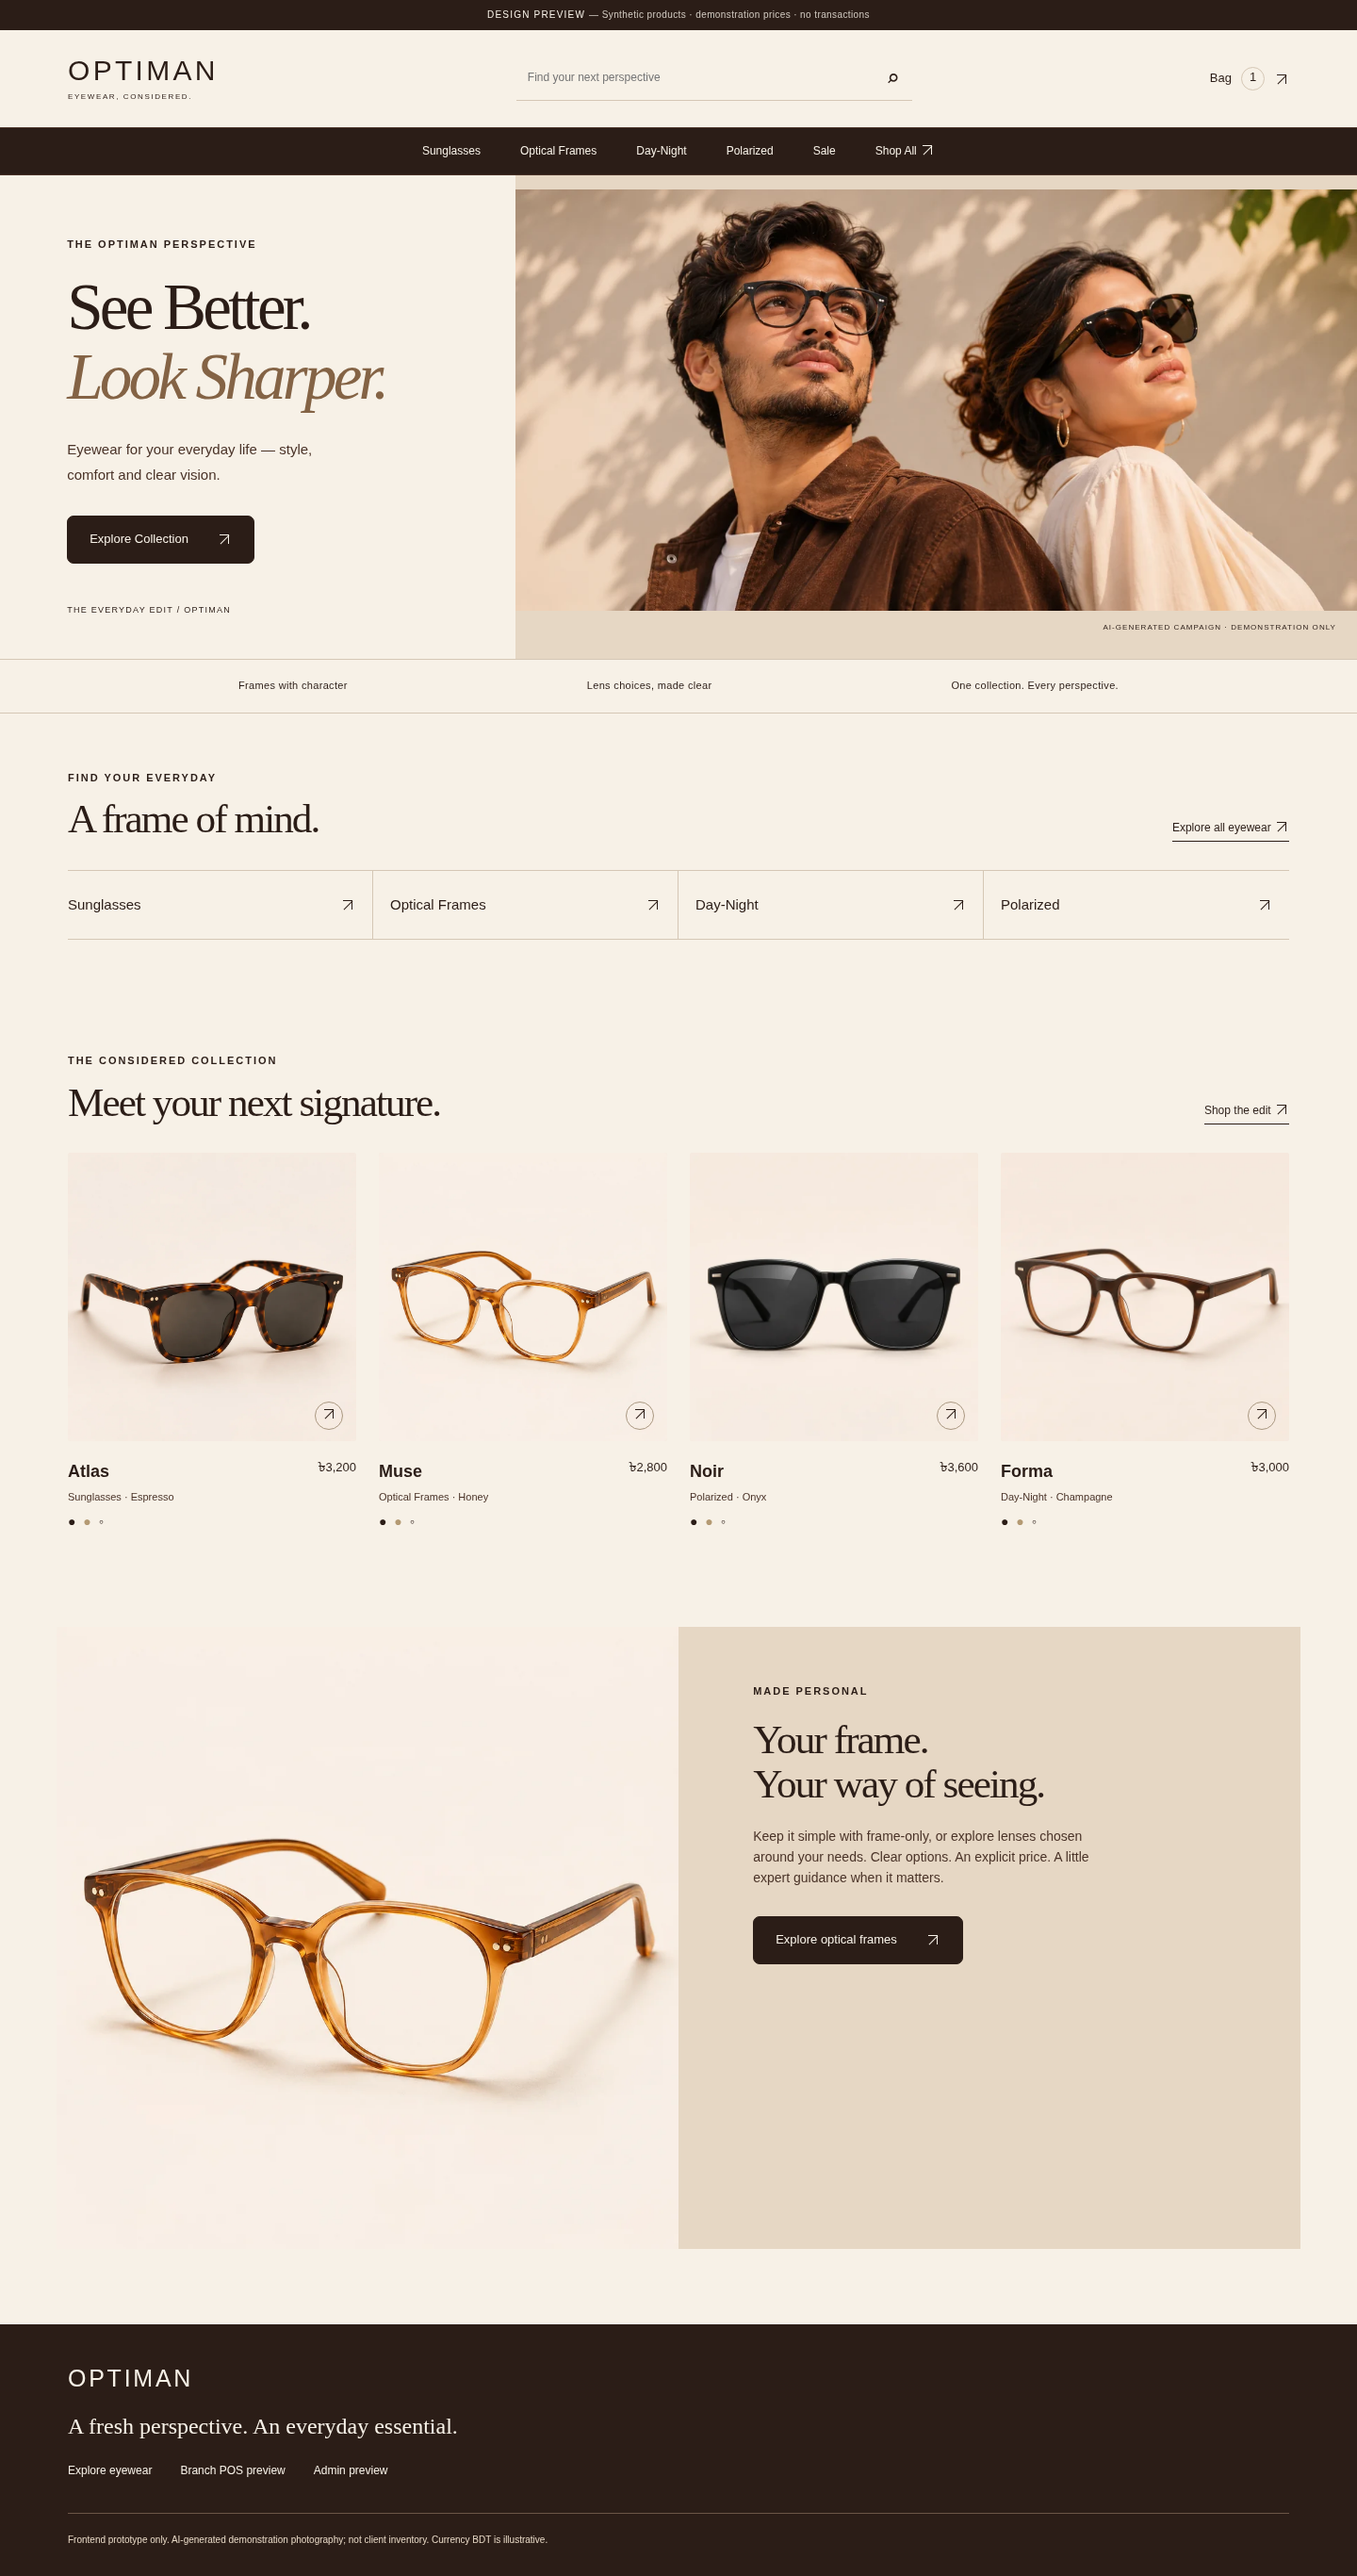
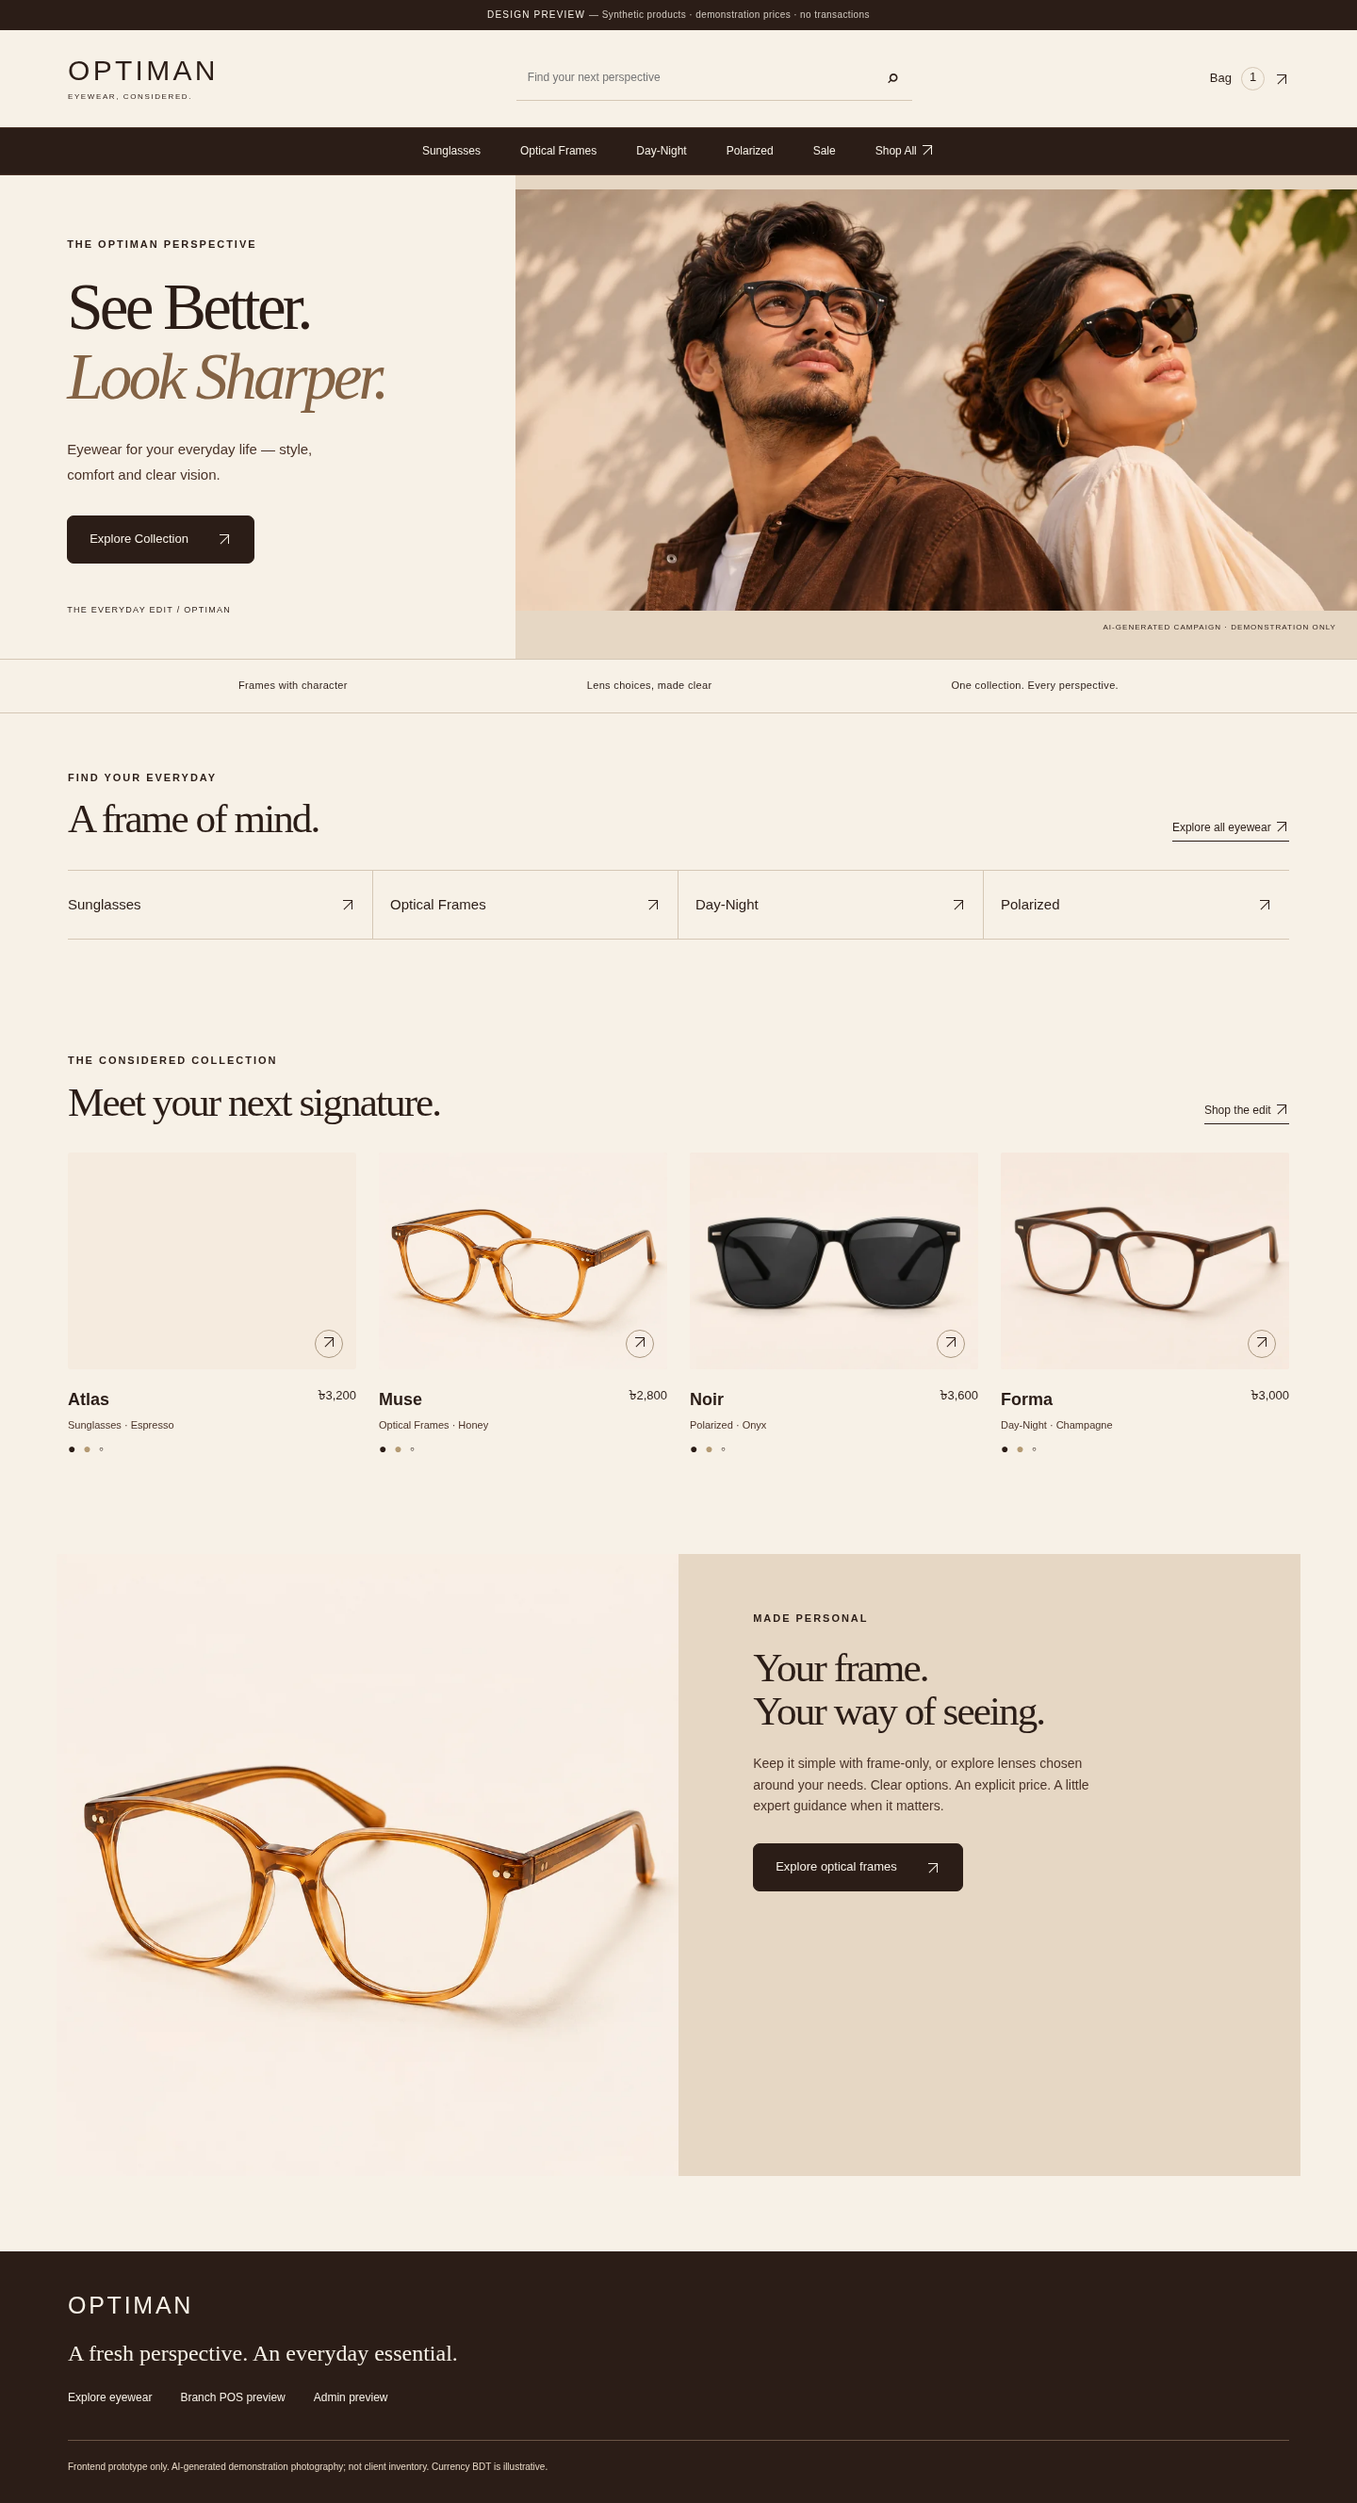
Make collection product image panels compact

diff --git a/preview/styles.css b/preview/styles.css
@@ -25,4 +25,7 @@ nav{background:var(--brown);color:var(--cream);border-color:var(--mocha)}
 @media(min-width:1024px){.campaign-hero .hero-art img{flex:0 0 auto}}
 @media(max-width:1023px){.campaign-hero{display:flex;flex-direction:column}.campaign-hero .hero-copy{padding:45px 6%;width:100%}.campaign-hero h1{font-size:60px}.campaign-hero .hero-copy>p:not(.eyebrow){max-width:420px}.campaign-hero .hero-copy small{margin-top:25px}.campaign-hero .hero-art{min-height:0;width:100%}.campaign-hero .hero-art img{height:auto;object-fit:contain}}
 @media(max-width:599px){.campaign-hero .hero-copy{padding:34px 6% 32px}.campaign-hero h1{font-size:clamp(43px,12vw,62px);line-height:1.05}.campaign-hero .hero-copy>.eyebrow{font-size:9px}.campaign-hero .hero-copy>p:not(.eyebrow){max-width:310px;margin-bottom:24px}.campaign-hero .hero-art img{height:auto;min-height:0;aspect-ratio:2/1}.campaign-hero figcaption{padding:9px 15px;font-size:7px}.editorial img{max-height:none}.gallery-main{min-height:0}.gallery .muted{margin-bottom:25px}}
-.product-image img{height:auto}
+/* Compact cards: constrain the panel independently of source image dimensions.
+   Trim only studio background above/below; keep the complete frame visible. */
+.product-image{aspect-ratio:4/3}
+.product-image img{width:100%;height:100%;aspect-ratio:auto;object-fit:cover;object-position:center 58%}

diff --git a/preview/README.md b/preview/README.md
@@ -87,3 +87,5 @@ Backend implementation must wait for separate authorization after UI review. Do 
 Expected behavior: local AI photographs replace SVG illustrations on all surfaces, without changing shopping rules. Verify image decoding, mapping, full hero framing, gallery containment, four responsive widths and existing interactions. Rollback: revert the image-integration commit; no migrations or persistent data are involved. Backend, deployment and merge remain unauthorized.
 
 Latest result: 36 layout checks passed at 360/390/768/1440px, including image decoding, square product image proportions and uncropped 2:1 hero framing. Existing interaction regression and all four gallery mappings passed with no JavaScript errors. Desktop/mobile screenshots were visually reviewed. This remains Chromium-based review, not physical-device or Windows verification.
+
+Product-card refinement: homepage and listing panels use a fixed 4:3 ratio and trim surplus studio background. Product galleries retain the complete square photograph. Responsive checks explicitly verify panel proportions.

diff --git a/docs/06_Plan.md b/docs/06_Plan.md
@@ -42,3 +42,7 @@ Every change to a locked rule requires a new version entry and explicit user app
 - Integrated the five supplied AI demonstration photographs as responsive local WebP assets; no external image dependency.
 - Updated editorial hero and consistent product mapping; removed misleading alternate gallery crop.
 - Scope remains frontend-only. Expected behavior, verification and rollback are documented in `preview/README.md`. Await visual approval after delivery.
+
+## Changelog — 2026-11-17 / compact product cards
+- Visual feedback: constrain collection/homepage product panels to 4:3, trimming excess studio background while retaining the full eyewear. Gallery remains square.
+- Expected: compact panels regardless of intrinsic image height; verify all four widths, frame visibility and existing interactions. Rollback: revert this styling commit. Frontend-only scope unchanged.
